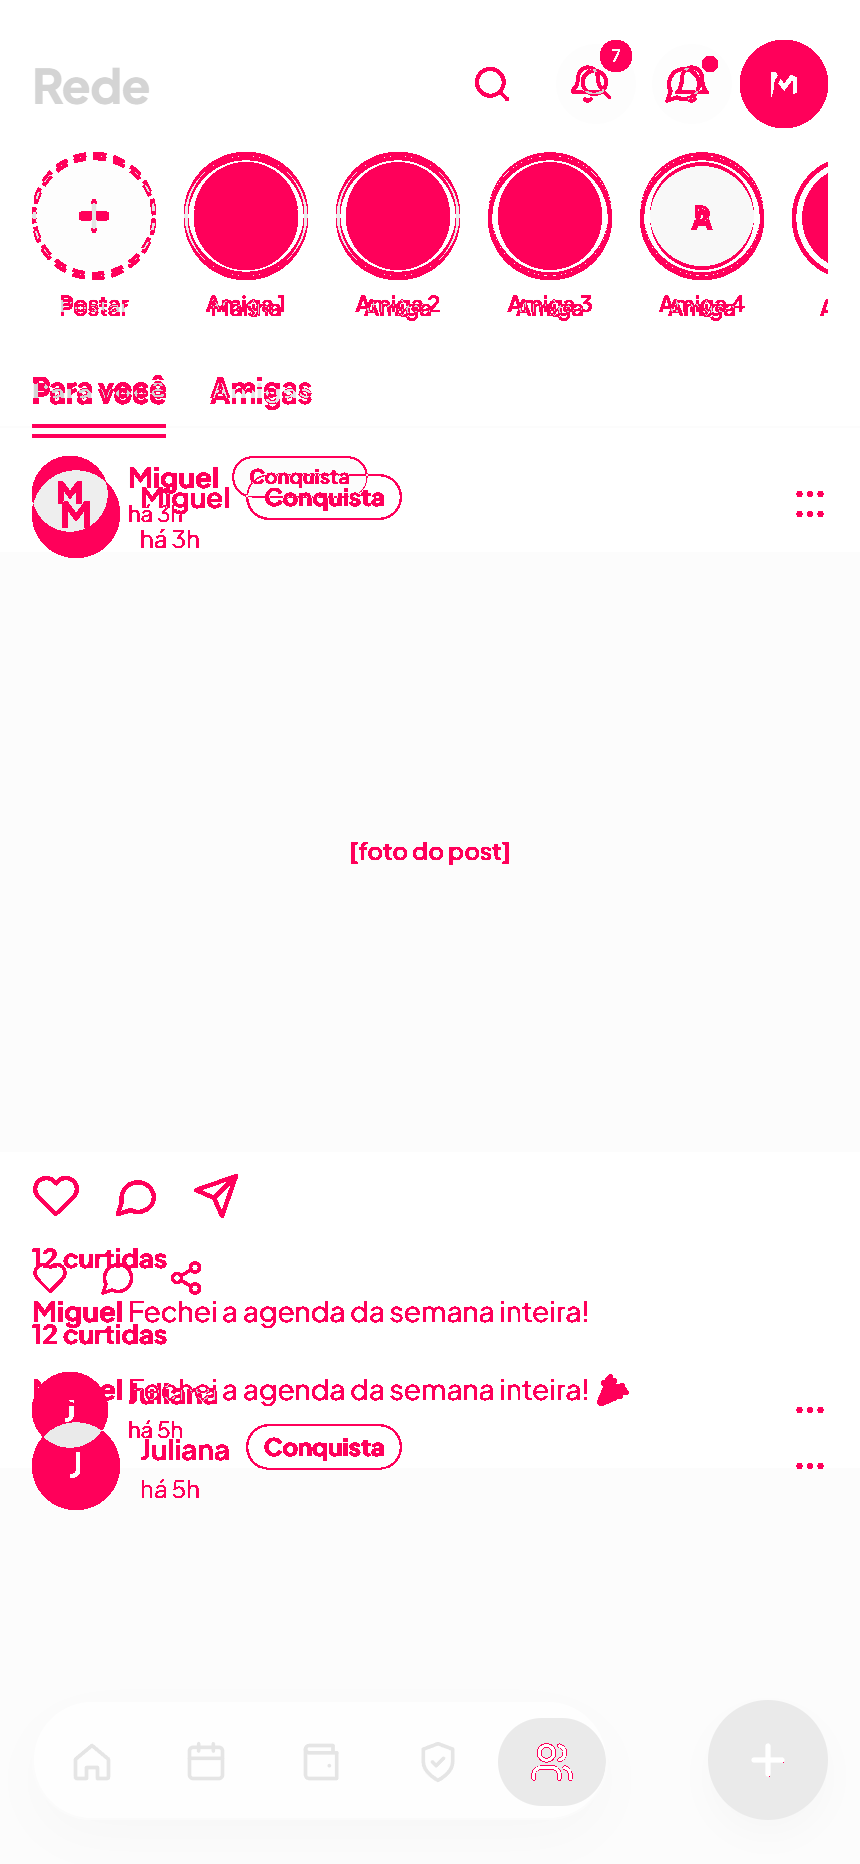
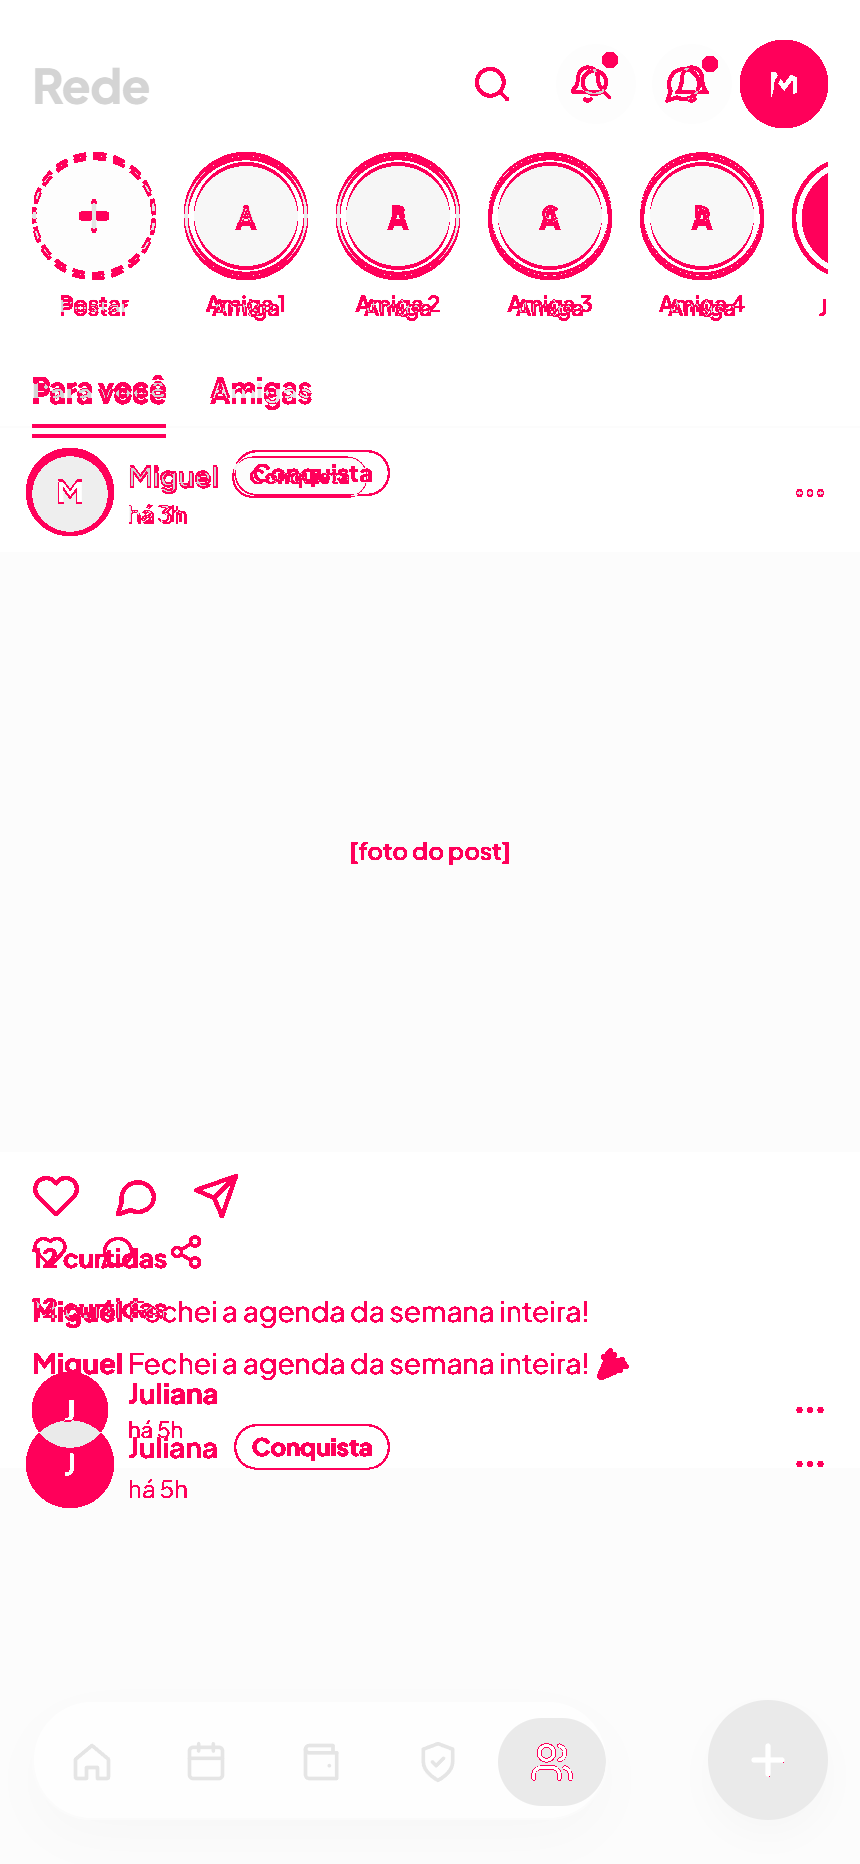
feat(pixel): ponto do sino e ordem da fileira de amigas
A referência marca "tem coisa nova" no sino com um PONTO de 8px no acento, nas
coordenadas top 6 e right 7, não com um número. O app punha uma pílula
vermelha com a contagem, maior que o ponto e de outra cor. A contagem continua
onde importa, dentro de cada folha.

A fileira do topo começava pela Juliana: a ordem vem do array de amizades, não
do array de perfis nem das datas, como eu tinha suposto nas duas tentativas
anteriores. Com as quatro da referência à frente, elas caem exatamente nas
quatro primeiras posições; Juliana e Marina ficam depois, alcançáveis
deslizando, e nenhuma amiga some.

Medido, e a ordem era o maior resíduo que restava:
  390 claro   6,21% -> 4,43%
  390 escuro  6,77% -> 5,02%
  430 claro   6,05% -> 4,31%
  430 escuro 12,22% -> 10,74%

diff --git a/components/rede/RedeHeader.tsx b/components/rede/RedeHeader.tsx
@@ -44,22 +44,23 @@ function IconButton({
         {children}
       </span>
       {!!badge && (
+        // A referência marca "tem coisa nova" com um PONTO de 8px no
+        // acento, não com um número: `top:6 right:7; width:8; height:8;
+        // border-radius:50%; background: var(--t-acc)`. O número ficava
+        // maior que o ponto e com outra cor, e aparecia em toda abertura
+        // da tela. A contagem continua acessível onde ela importa, dentro
+        // de cada folha (notificações e conversas).
         <span
-          className="absolute flex items-center justify-center rounded-full font-bold"
+          aria-hidden
+          className="absolute rounded-full"
           style={{
-            top: 0,
-            right: 0,
-            minWidth: 16,
-            height: 16,
-            padding: "0 3px",
-            fontSize: 9,
-            background: "var(--danger)",
-            color: "#fff",
-            boxShadow: "0 0 0 2px var(--bg)",
+            top: 6,
+            right: 7,
+            width: 8,
+            height: 8,
+            background: "var(--accent)",
           }}
-        >
-          {badge > 9 ? "9+" : badge}
-        </span>
+        />
       )}
     </button>
   );

diff --git a/lib/mockAppData.ts b/lib/mockAppData.ts
@@ -775,14 +775,6 @@ export function buildMockAppSeed(opts?: {
         // mostra as mais recentes primeiro, e a referência desenha as 4
         // "Amiga N" nas quatro primeiras posições. Marina fica depois
         // delas, alcançável deslizando.
-        {
-          id: "mock-amizade-juliana",
-          solicitante_id: "mock-amiga-juliana",
-          destinatario_id: uid,
-          status: "aceita",
-          criado_em: daysFromNow(-26),
-          respondido_em: daysFromNow(-25),
-        },
         ...AMIGAS_DA_REFERENCIA.map((a, i) => ({
           id: `mock-amizade-${a.id}`,
           solicitante_id: a.id,
@@ -791,6 +783,14 @@ export function buildMockAppSeed(opts?: {
           criado_em: daysFromNow(-28 + i),
           respondido_em: daysFromNow(-27 + i),
         })),
+        {
+          id: "mock-amizade-juliana",
+          solicitante_id: "mock-amiga-juliana",
+          destinatario_id: uid,
+          status: "aceita",
+          criado_em: daysFromNow(-26),
+          respondido_em: daysFromNow(-25),
+        },
         {
           id: "mock-amizade-marina",
           solicitante_id: FRIEND_ID,

diff --git a/docs/jornada/prints/pixel/rede/rede-430-escuro-pink-neon-estilos.md b/docs/jornada/prints/pixel/rede/rede-430-escuro-pink-neon-estilos.md
@@ -1,0 +1,207 @@
+# Estilos: rede-430-escuro-pink-neon
+
+- mockup: `5-telas-8-temas-claro-escuro.html`
+- app: `http://localhost:3107/dev-preview/app`
+- pareados 90 · divergem 63 · só no mockup 23 · só no app 476
+- impacto total: **74.445**
+- famílias no mockup: plus jakarta sans (27)
+- famílias no app: plus jakarta sans (148)
+
+Ordem por impacto = (soma das diferenças normalizadas) × √(área relativa).
+Em cada célula: **mockup** → app.
+
+## Só os elementos com texto (19)
+
+| impacto | texto | propriedade | mockup → app |
+| ------- | ----- | ----------- | ------------ |
+| 10.367 | “[foto do post]” | fontSize | `12px` → `15px` |
+| 10.367 | “[foto do post]” | fontWeight | `600` → `400` |
+| 10.367 | “[foto do post]” | lineHeight | `18px` → `22.5px` |
+| 10.367 | “[foto do post]” | color | `rgb(29, 63, 122)` → `rgb(250, 238, 245)` |
+| 10.367 | “[foto do post]” | backgroundColor | `rgb(47, 44, 64)` → `rgb(81, 23, 46)` |
+| 10.367 | “[foto do post]” | altura | `300px` → `331px` |
+| 8.299 | “[foto do post]” | fontSize | `12px` → `15px` |
+| 8.299 | “[foto do post]” | fontWeight | `600` → `400` |
+| 8.299 | “[foto do post]” | lineHeight | `18px` → `22.5px` |
+| 8.299 | “[foto do post]” | color | `rgb(255, 128, 171)` → `rgb(250, 238, 245)` |
+| 8.299 | “[foto do post]” | altura | `300px` → `331px` |
+| 1.782 | “Postar” | gap | `6px` → `normal` |
+| 1.782 | “Postar” | largura | `62px` → `34.5px` |
+| 1.782 | “Postar” | altura | `84.5px` → `16.5px` |
+| 1.645 | “Miguel” | fontWeight | `700` → `600` |
+| 1.645 | “Miguel” | lineHeight | `21px` → `20px` |
+| 1.645 | “Miguel” | gap | `6px` → `normal` |
+| 1.645 | “Miguel” | largura | `322px` → `45.1px` |
+| 1.645 | “Miguel” | altura | `21px` → `20px` |
+| 1.515 | “Juliana” | fontWeight | `700` → `600` |
+| 1.515 | “Juliana” | lineHeight | `21px` → `20px` |
+| 1.515 | “Juliana” | largura | `322px` → `44.9px` |
+| 1.515 | “Juliana” | altura | `21px` → `20px` |
+| 1.479 | “A” | fontSize | `11px` → `15px` |
+| 1.479 | “A” | lineHeight | `16.5px` → `22.5px` |
+| 1.479 | “A” | color | `rgb(59, 42, 122)` → `color(srgb 0.345176 0.313098 0.45749)` |
+| 1.479 | “A” | borderRadius | `50% 50% 50% 50%` → `9999px 9999px 9999px 9999px` |
+| 1.294 | “Rede” | largura | `254px` → `58.8px` |
+| 0.825 | “M” | fontWeight | `800` → `700` |
+| 0.825 | “M” | borderRadius | `50% 50% 50% 50%` → `9999px 9999px 9999px 9999px` |
+| 0.825 | “M” | padding | `0px 0px 0px 0px` → `3px 3px 3px 3px` |
+| 0.825 | “M” | largura | `38px` → `44px` |
+| 0.825 | “M” | altura | `38px` → `44px` |
+| 0.825 | “J” | fontWeight | `800` → `700` |
+| 0.825 | “J” | borderRadius | `50% 50% 50% 50%` → `9999px 9999px 9999px 9999px` |
+| 0.825 | “J” | padding | `0px 0px 0px 0px` → `3px 3px 3px 3px` |
+| 0.825 | “J” | largura | `38px` → `44px` |
+| 0.825 | “J” | altura | `38px` → `44px` |
+| 0.8 | “Amiga 1” | fontSize | `11px` → `15px` |
+| 0.8 | “Amiga 1” | lineHeight | `16.5px` → `22.5px` |
+| 0.8 | “Amiga 2” | fontSize | `11px` → `15px` |
+| 0.8 | “Amiga 2” | lineHeight | `16.5px` → `22.5px` |
+| 0.8 | “Amiga 3” | fontSize | `11px` → `15px` |
+| 0.8 | “Amiga 3” | lineHeight | `16.5px` → `22.5px` |
+
+## Todos os elementos
+
+| # | impacto | elemento | onde | propriedade | mockup → app |
+| - | ------- | -------- | ---- | ----------- | ------------ |
+| 1 | 10.367 | div “[foto do post]” | 0,734 · 430x300 | fontSize | `12px` → `15px` |
+|  |  |  |  | fontWeight | `600` → `400` |
+|  |  |  |  | lineHeight | `18px` → `22.5px` |
+|  |  |  |  | color | `rgb(29, 63, 122)` → `rgb(250, 238, 245)` |
+|  |  |  |  | backgroundColor | `rgb(47, 44, 64)` → `rgb(81, 23, 46)` |
+|  |  |  |  | altura | `300px` → `331px` |
+| 2 | 8.299 | div “[foto do post]” | 0,276 · 430x300 | fontSize | `12px` → `15px` |
+|  |  |  |  | fontWeight | `600` → `400` |
+|  |  |  |  | lineHeight | `18px` → `22.5px` |
+|  |  |  |  | color | `rgb(255, 128, 171)` → `rgb(250, 238, 245)` |
+|  |  |  |  | altura | `300px` → `331px` |
+| 3 | 6.859 | article | 0,686 · 430x439 | altura | `438.5px` → `511.5px` |
+| 4 | 5.69 | div | 16,850 · 398x60 | backgroundColor | `rgba(0, 0, 0, 0)` → `rgba(37, 18, 28, 0.74)` |
+|  |  |  |  | borderRadius | `0px 0px 0px 0px` → `999px 999px 999px 999px` |
+|  |  |  |  | boxShadow | `none` → `rgba(0, 0, 0, 0.45) 0px 10px 30px 0px` |
+|  |  |  |  | largura | `398px` → `288px` |
+| 5 | 3.201 | article | 0,228 · 430x439 | altura | `438.5px` → `466.5px` |
+| 6 | 2.764 | nav | 16,850 · 288x60 | backgroundColor | `rgba(37, 18, 28, 0.74)` → `rgba(0, 0, 0, 0)` |
+|  |  |  |  | borderRadius | `30px 30px 30px 30px` → `0px 0px 0px 0px` |
+|  |  |  |  | boxShadow | `rgba(0, 0, 0, 0.45) 0px 10px 30px 0px` → `none` |
+| 7 | 2.203 | div | 0,0 · 430x932 | backgroundColor | `rgb(10, 0, 7)` → `rgba(0, 0, 0, 0)` |
+| 8 | 1.782 | div “Postar” | 16,76 · 62x85 | gap | `6px` → `normal` |
+|  |  |  |  | largura | `62px` → `34.5px` |
+|  |  |  |  | altura | `84.5px` → `16.5px` |
+| 9 | 1.665 | span | 16,76 · 62x62 | fontSize | `11px` → `15px` |
+|  |  |  |  | lineHeight | `16.5px` → `22.5px` |
+|  |  |  |  | borderRadius | `50% 50% 50% 50%` → `9999px 9999px 9999px 9999px` |
+| 10 | 1.665 | span | 92,76 · 62x62 | fontSize | `11px` → `15px` |
+|  |  |  |  | lineHeight | `16.5px` → `22.5px` |
+|  |  |  |  | borderRadius | `50% 50% 50% 50%` → `9999px 9999px 9999px 9999px` |
+| 11 | 1.665 | span | 168,76 · 62x62 | fontSize | `11px` → `15px` |
+|  |  |  |  | lineHeight | `16.5px` → `22.5px` |
+|  |  |  |  | borderRadius | `50% 50% 50% 50%` → `9999px 9999px 9999px 9999px` |
+| 12 | 1.665 | span | 244,76 · 62x62 | fontSize | `11px` → `15px` |
+|  |  |  |  | lineHeight | `16.5px` → `22.5px` |
+|  |  |  |  | borderRadius | `50% 50% 50% 50%` → `9999px 9999px 9999px 9999px` |
+| 13 | 1.665 | span | 320,76 · 62x62 | fontSize | `11px` → `15px` |
+|  |  |  |  | lineHeight | `16.5px` → `22.5px` |
+|  |  |  |  | borderRadius | `50% 50% 50% 50%` → `9999px 9999px 9999px 9999px` |
+| 14 | 1.645 | div “Miguel” | 64,228 · 322x21 | fontWeight | `700` → `600` |
+|  |  |  |  | lineHeight | `21px` → `20px` |
+|  |  |  |  | gap | `6px` → `normal` |
+|  |  |  |  | largura | `322px` → `45.1px` |
+|  |  |  |  | altura | `21px` → `20px` |
+| 15 | 1.606 | div | 0,76 · 430x85 | largura | `430px` → `398px` |
+| 16 | 1.515 | div “Juliana” | 64,686 · 322x21 | fontWeight | `700` → `600` |
+|  |  |  |  | lineHeight | `21px` → `20px` |
+|  |  |  |  | largura | `322px` → `44.9px` |
+|  |  |  |  | altura | `21px` → `20px` |
+| 17 | 1.479 | span “A” | 97,81 · 52x52 | fontSize | `11px` → `15px` |
+|  |  |  |  | lineHeight | `16.5px` → `22.5px` |
+|  |  |  |  | color | `rgb(59, 42, 122)` → `color(srgb 0.345176 0.313098 0.45749)` |
+|  |  |  |  | borderRadius | `50% 50% 50% 50%` → `9999px 9999px 9999px 9999px` |
+| 18 | 1.294 | h1 “Rede” | 16,29 · 254x26 | largura | `254px` → `58.8px` |
+| 19 | 1.142 | div | 0,175 · 430x39 | largura | `430px` → `398px` |
+|  |  |  |  | altura | `39px` → `40.5px` |
+| 20 | 1.073 | div | 0,1078 · 430x20 | fontSize | `13px` → `15px` |
+|  |  |  |  | lineHeight | `19.5px` → `22.5px` |
+|  |  |  |  | padding | `0px 16px 0px 16px` → `8px 0px 0px 0px` |
+|  |  |  |  | gap | `normal` → `5px` |
+|  |  |  |  | altura | `19.5px` → `14px` |
+| 21 | 0.98 | span | 354,850 · 60x60 | color | `rgb(255, 255, 255)` → `rgb(250, 238, 245)` |
+|  |  |  |  | borderRadius | `50% 50% 50% 50%` → `9999px 9999px 9999px 9999px` |
+| 22 | 0.892 | span | 374,22 · 40x40 | backgroundColor | `rgb(32, 21, 28)` → `rgba(0, 0, 0, 0)` |
+|  |  |  |  | borderRadius | `50% 50% 50% 50%` → `9999px 9999px 9999px 9999px` |
+|  |  |  |  | largura | `40px` → `44px` |
+|  |  |  |  | altura | `40px` → `44px` |
+| 23 | 0.825 | span “M” | 16,228 · 38x38 | fontWeight | `800` → `700` |
+|  |  |  |  | borderRadius | `50% 50% 50% 50%` → `9999px 9999px 9999px 9999px` |
+|  |  |  |  | padding | `0px 0px 0px 0px` → `3px 3px 3px 3px` |
+|  |  |  |  | largura | `38px` → `44px` |
+|  |  |  |  | altura | `38px` → `44px` |
+| 24 | 0.825 | span “J” | 16,686 · 38x38 | fontWeight | `800` → `700` |
+|  |  |  |  | borderRadius | `50% 50% 50% 50%` → `9999px 9999px 9999px 9999px` |
+|  |  |  |  | padding | `0px 0px 0px 0px` → `3px 3px 3px 3px` |
+|  |  |  |  | largura | `38px` → `44px` |
+|  |  |  |  | altura | `38px` → `44px` |
+| 25 | 0.8 | div “Amiga 1” | 92,76 · 62x85 | fontSize | `11px` → `15px` |
+|  |  |  |  | lineHeight | `16.5px` → `22.5px` |
+| 26 | 0.8 | div “Amiga 2” | 168,76 · 62x85 | fontSize | `11px` → `15px` |
+|  |  |  |  | lineHeight | `16.5px` → `22.5px` |
+| 27 | 0.8 | div “Amiga 3” | 244,76 · 62x85 | fontSize | `11px` → `15px` |
+|  |  |  |  | lineHeight | `16.5px` → `22.5px` |
+| 28 | 0.8 | div “Amiga 4” | 320,76 · 62x85 | fontSize | `11px` → `15px` |
+|  |  |  |  | lineHeight | `16.5px` → `22.5px` |
+| 29 | 0.77 | span | 249,859 · 54x44 | borderRadius | `22px 22px 22px 22px` → `999px 999px 999px 999px` |
+| 30 | 0.711 | span | 23,859 · 46x44 | borderRadius | `22px 22px 22px 22px` → `999px 999px 999px 999px` |
+| 31 | 0.711 | span | 80,859 · 46x44 | borderRadius | `22px 22px 22px 22px` → `999px 999px 999px 999px` |
+| 32 | 0.711 | span | 138,859 · 46x44 | borderRadius | `22px 22px 22px 22px` → `999px 999px 999px 999px` |
+| 33 | 0.711 | span | 196,859 · 46x44 | borderRadius | `22px 22px 22px 22px` → `999px 999px 999px 999px` |
+| 34 | 0.655 | span “Conquista” | 116,228 · 68x21 | fontSize | `10px` → `12px` |
+|  |  |  |  | lineHeight | `15px` → `17px` |
+|  |  |  |  | color | `rgb(80, 220, 120)` → `color(srgb 0.567059 0.889569 0.656863)` |
+|  |  |  |  | backgroundColor | `rgb(44, 50, 43)` → `rgba(80, 220, 120, 0.12)` |
+|  |  |  |  | largura | `68.3px` → `78.4px` |
+|  |  |  |  | altura | `21px` → `23px` |
+| 35 | 0.632 | span | 278,22 · 40x40 | borderRadius | `50% 50% 50% 50%` → `9999px 9999px 9999px 9999px` |
+| 36 | 0.632 | span | 326,22 · 40x40 | borderRadius | `50% 50% 50% 50%` → `9999px 9999px 9999px 9999px` |
+| 37 | 0.488 | div “Primeira semana com a agenda cheia” | 0,1104 · 430x21 | fontSize | `14px` → `15px` |
+|  |  |  |  | lineHeight | `21px` → `22.5px` |
+|  |  |  |  | gap | `normal` → `16px` |
+|  |  |  |  | altura | `21px` → `18px` |
+| 38 | 0.345 | div | 0,22 · 430x40 | gap | `8px` → `normal` |
+|  |  |  |  | altura | `40px` → `44px` |
+| 39 | 0.243 | svg | 36,96 · 22x22 | fontSize | `11px` → `15px` |
+|  |  |  |  | lineHeight | `16.5px` → `22.5px` |
+| 40 | 0.196 | svg | 16,1044 · 24x24 | color | `rgb(250, 238, 245)` → `rgb(255, 45, 120)` |
+|  |  |  |  | largura | `24px` → `20px` |
+|  |  |  |  | altura | `24px` → `20px` |
+| 41 | 0.16 | div | 0,586 · 430x24 | altura | `24px` → `18px` |
+| 42 | 0.154 | div “há 3h” | 64,249 · 322x17 | fontSize | `11px` → `12px` |
+|  |  |  |  | lineHeight | `16.5px` → `16px` |
+|  |  |  |  | altura | `16.5px` → `16px` |
+| 43 | 0.154 | div “há 5h” | 64,707 · 322x17 | fontSize | `11px` → `12px` |
+|  |  |  |  | lineHeight | `16.5px` → `16px` |
+|  |  |  |  | altura | `16.5px` → `16px` |
+| 44 | 0.12 | path | 59,1049 · 18x16 | color | `rgb(250, 238, 245)` → `rgb(255, 45, 120)` |
+|  |  |  |  | largura | `18px` → `15px` |
+|  |  |  |  | altura | `15.9px` → `15px` |
+| 45 | 0.119 | path | 98,588 · 20x20 | color | `rgb(250, 238, 245)` → `rgb(255, 82, 143)` |
+|  |  |  |  | largura | `20px` → `18px` |
+|  |  |  |  | altura | `20px` → `18px` |
+| 46 | 0.109 | path | 18,589 · 21x18 | color | `rgb(250, 238, 245)` → `rgb(255, 82, 143)` |
+|  |  |  |  | largura | `20.8px` → `18px` |
+| 47 | 0.101 | div | 0,228 · 430x38 | altura | `38px` → `41px` |
+| 48 | 0.101 | div | 64,228 · 322x38 | altura | `37.5px` → `41px` |
+| 49 | 0.101 | div | 0,686 · 430x38 | altura | `38px` → `41px` |
+| 50 | 0.101 | div | 64,686 · 322x38 | altura | `37.5px` → `41px` |
+| 51 | 0.092 | path | 59,591 · 18x16 | color | `rgb(250, 238, 245)` → `rgb(255, 82, 143)` |
+|  |  |  |  | altura | `15.9px` → `18px` |
+| 52 | 0.078 | svg | 396,238 · 18x18 | color | `rgb(250, 238, 245)` → `rgb(154, 143, 150)` |
+| 53 | 0.078 | svg | 396,696 · 18x18 | color | `rgb(250, 238, 245)` → `rgb(154, 143, 150)` |
+| 54 | 0.069 | span “Amigas” | 105,175 · 51x38 | altura | `38px` → `44px` |
+| 55 | 0.067 | span “Para você” | 16,175 · 67x39 | altura | `39px` → `44px` |
+| 56 | 0.015 | path | 339,34 · 15x13 | largura | `15px` → `15.8px` |
+|  |  |  |  | altura | `12.5px` → `15.8px` |
+| 57 | 0.013 | svg | 372,868 · 24x24 | color | `rgb(255, 255, 255)` → `rgb(250, 238, 245)` |
+| 58 | 0.007 | circle | 399,246 · 2x2 | color | `rgb(250, 238, 245)` → `rgb(154, 143, 150)` |
+| 59 | 0.007 | circle | 404,246 · 2x2 | color | `rgb(250, 238, 245)` → `rgb(154, 143, 150)` |
+| 60 | 0.007 | circle | 410,246 · 2x2 | color | `rgb(250, 238, 245)` → `rgb(154, 143, 150)` |
+
+_(3 elementos de impacto menor omitidos)_
